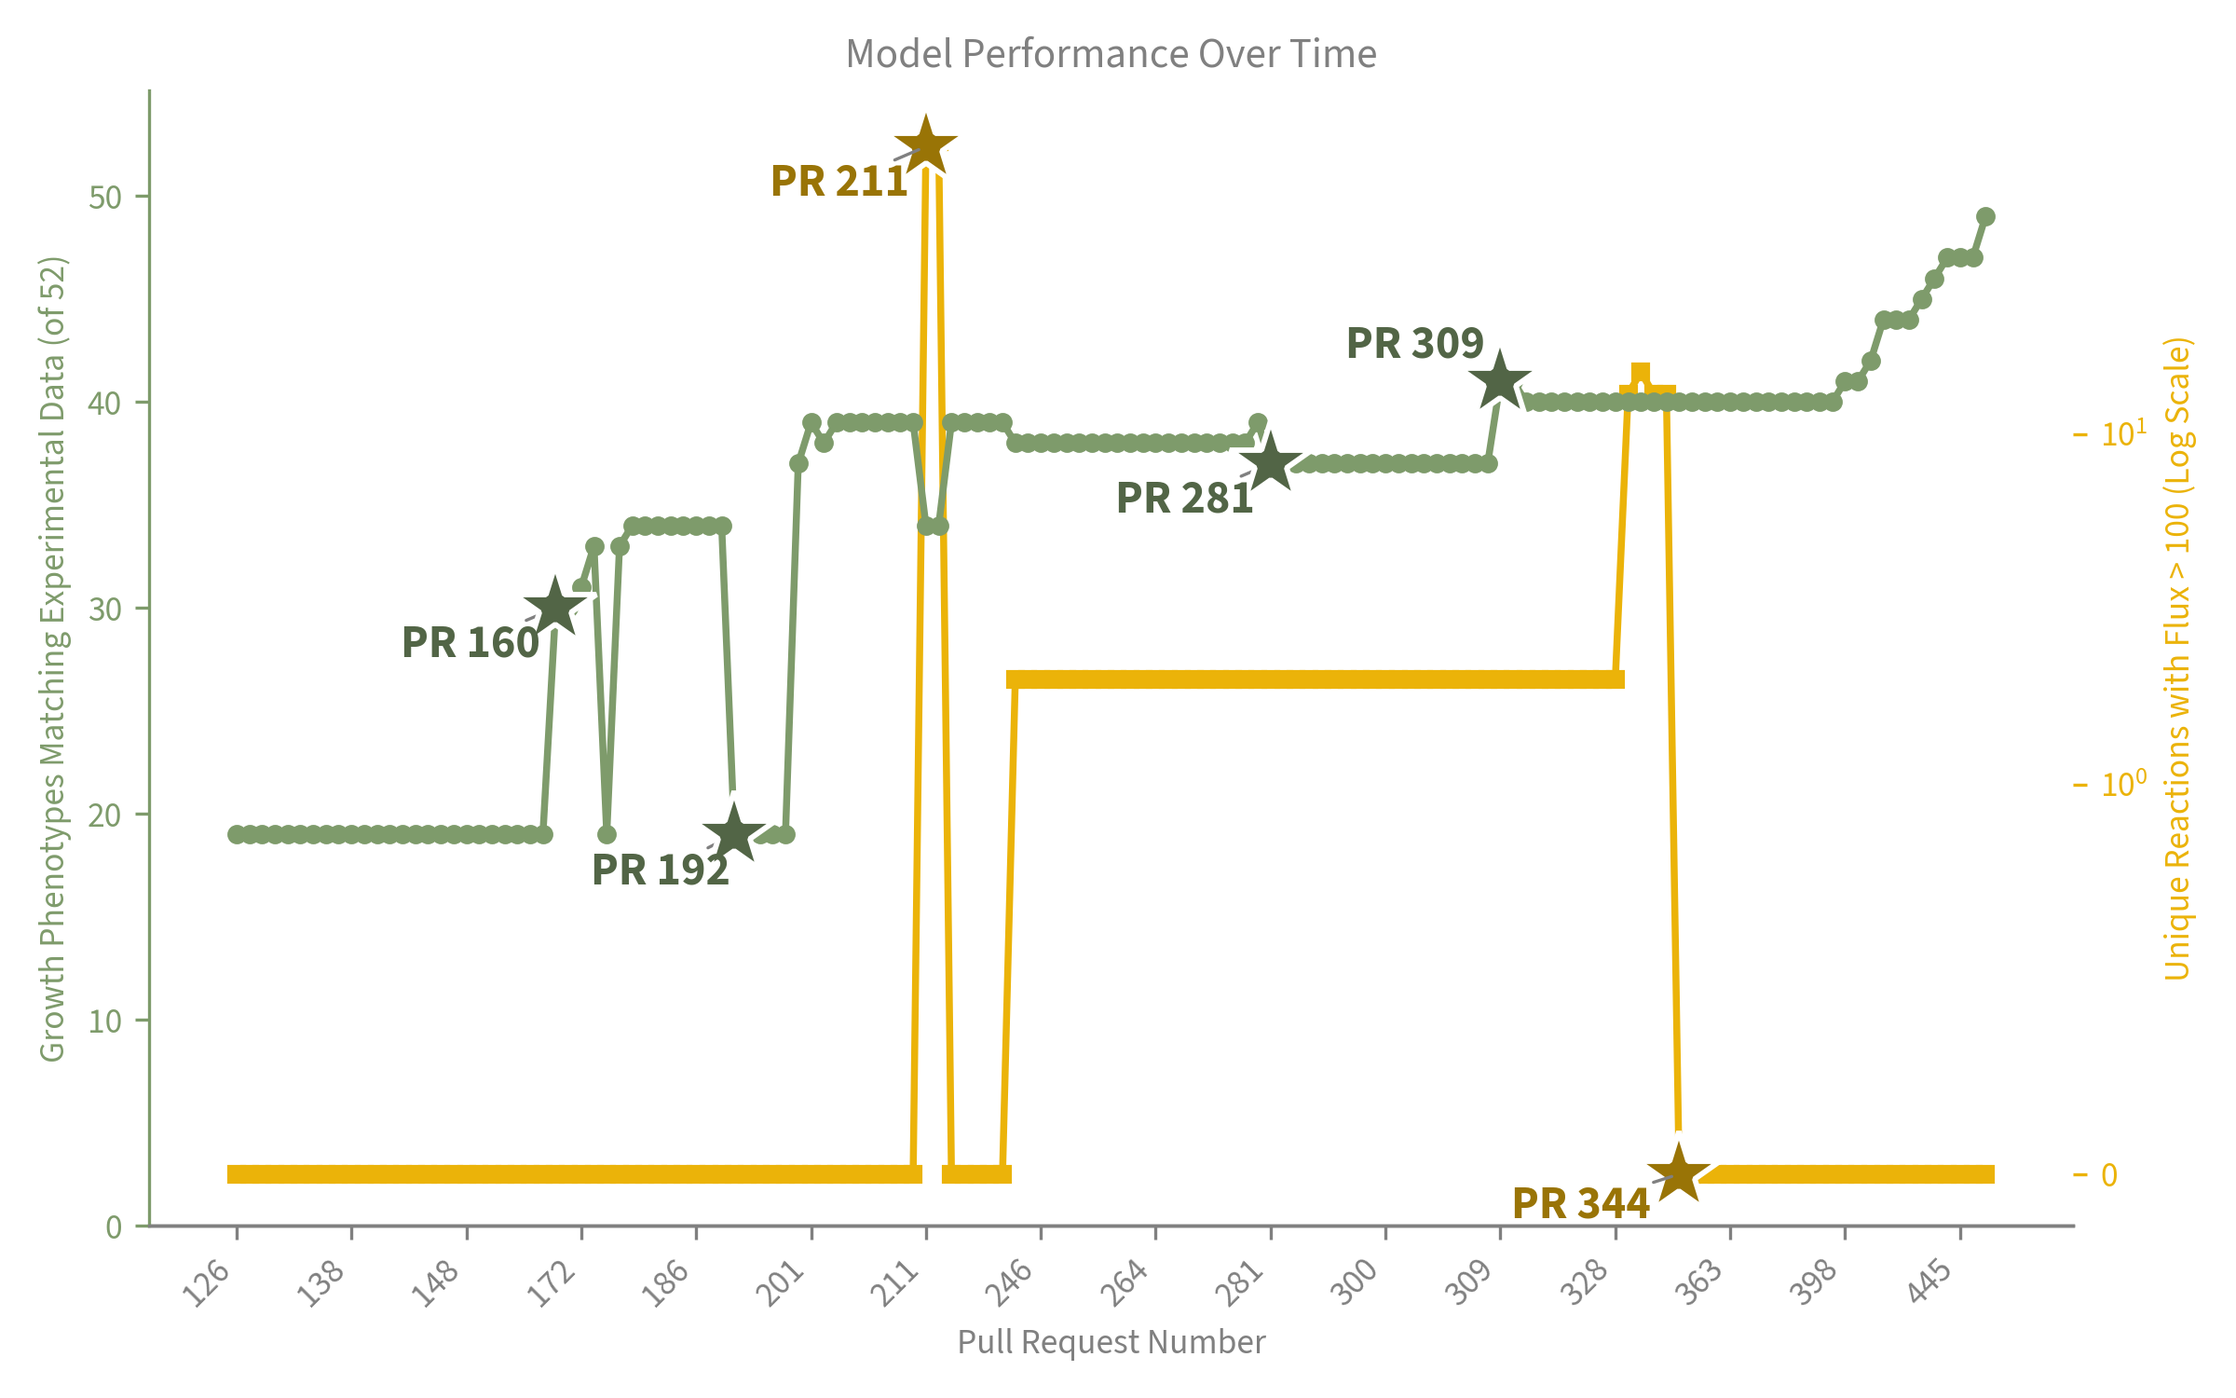
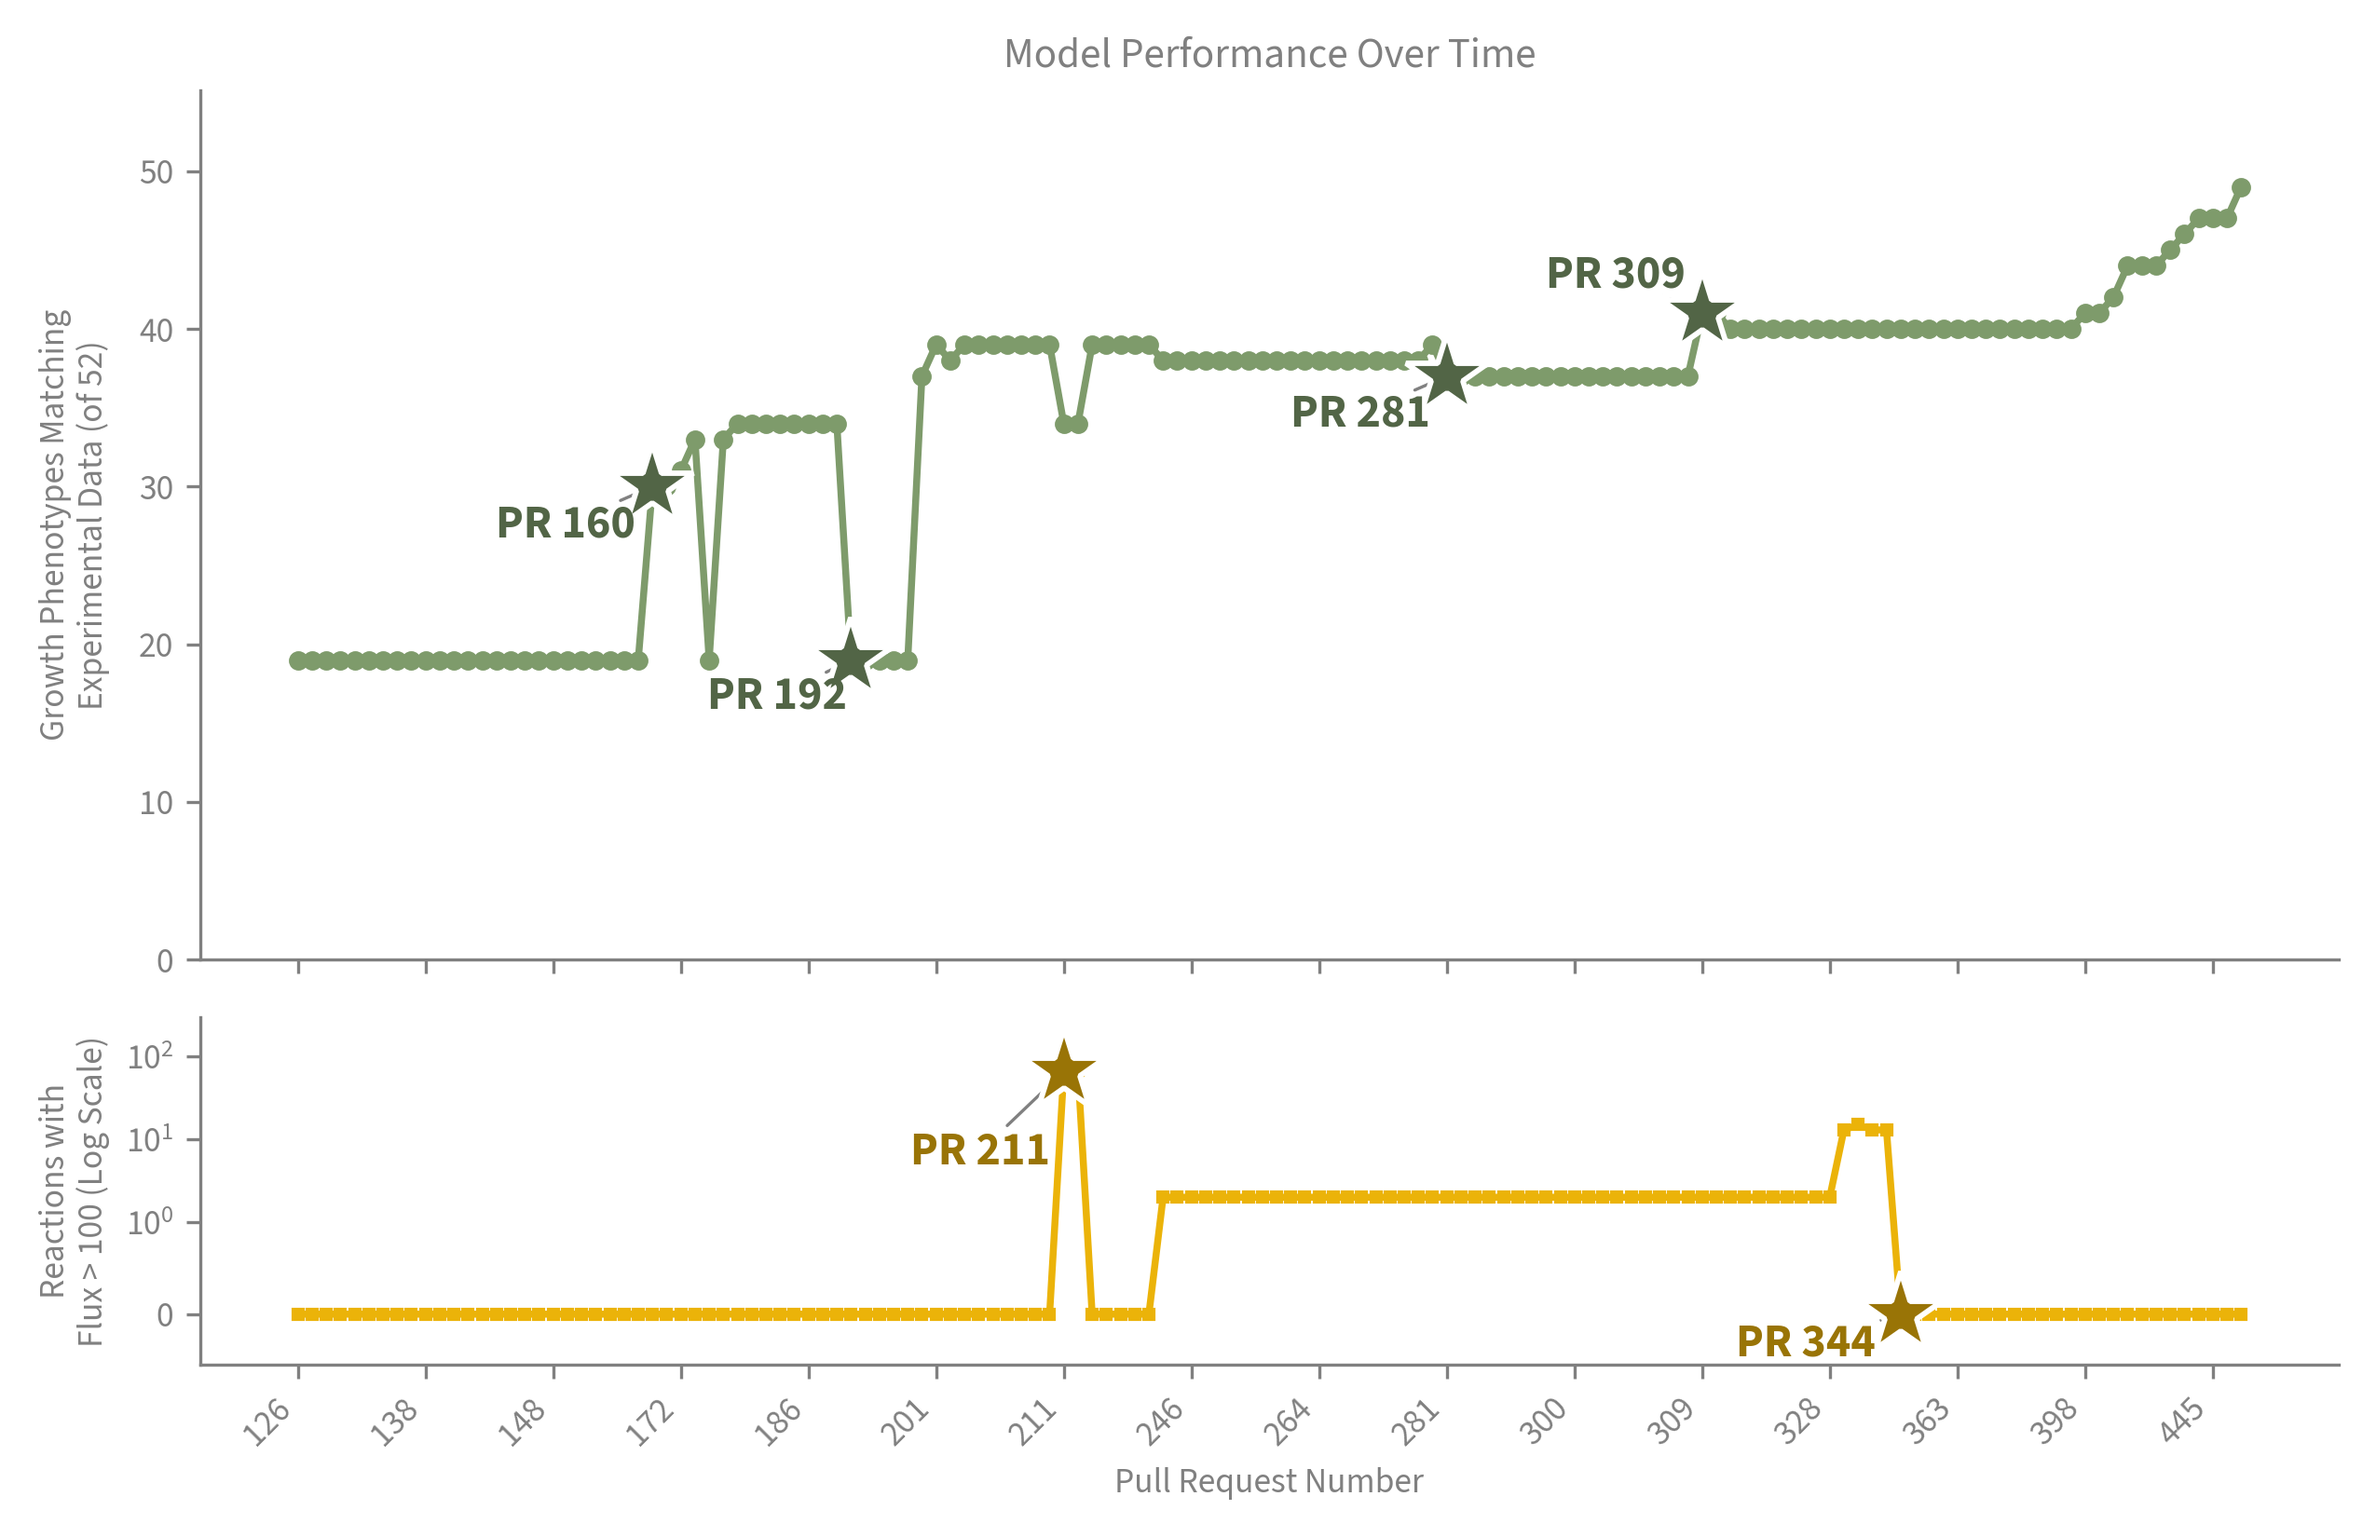
feat: separate the lines onto different panels

diff --git a/curation_process/plot_match_over_time.py b/curation_process/plot_match_over_time.py
@@ -80,14 +80,27 @@ flux_color = summer_colors["yellow"]
 matches_marker = "o"
 flux_marker = "s"
 
-# Create a figure with twin y axes
-fig, ax1 = plt.subplots(figsize=(8, 5))
-ax2 = ax1.twinx()
+# Two stacked panels sharing one x axis, rather than the twin y axes this used
+# to have. The growth-match line gets the taller panel because it is the result
+# the figure is about; the unbounded-flux line is a diagnostic, so it gets a
+# short panel underneath. Giving each line its own panel also means each y axis
+# belongs to exactly one series, so the axes no longer have to be color-coded
+# to say which line they describe.
+#
+# 8.5 in is the full width of the figure as submitted, labels and legends
+# included, so nothing gets scaled (and no in-figure text shrinks) afterwards.
+fig, (ax_match, ax_flux) = plt.subplots(
+    2,
+    1,
+    sharex=True,
+    figsize=(8.5, 5.5),
+    height_ratios=[2.5, 1],
+)
 # Scale the unbounded flux axis to show detail near zero
-ax2.set_yscale("symlog", linthresh=1)
+ax_flux.set_yscale("symlog", linthresh=1)
 
-# Plot the number of matches on the left axis
-ax1.plot(
+# Plot the number of matches on the top panel
+ax_match.plot(
     data.index,
     data["Matches"],
     marker=matches_marker,
@@ -99,12 +112,14 @@ ax1.plot(
     color=matches_color,
 )
 
-# Plot the number of arbitrarily large reactions on the right axis
-ax2.plot(
+# Plot the number of arbitrarily large reactions on the bottom panel
+ax_flux.plot(
     data.index,
     data["Unbounded Flux Reactions"],
     marker=flux_marker,
-    markersize=4,
+    # Smaller than the top panel's markers: this panel is a third the height,
+    # so markers at the same size merge into a solid slab along the zero line
+    markersize=2.5,
     linestyle="-",
     # Slightly heavier than the default: the yellow of this palette is light
     # against white, and a hairline in it disappears at figure scale
@@ -112,49 +127,40 @@ ax2.plot(
     color=flux_color,
 )
 
-# Make it so it looks like the matches line is "on top"
-# Move ax1 to a higher z-order than ax2
-ax1.set_zorder(ax2.get_zorder() + 1)
-# Make ax1's background transparent so ax2 is still visible behind it
-ax1.patch.set_visible(False)
+# Apply the shared style (gray axis lines, no top/right spines, gray text)
+set_plot_style(ax_match)
+set_plot_style(ax_flux)
 
-# Apply the shared style (gray bottom axis, no top/right spines, gray text)
-set_plot_style(ax1)
-
-# Titles and labels (set on ax1 so set_plot_style's gray text applies)
-ax1.set_title("Model Performance Over Time")
-ax1.set_xlabel("Pull Request Number")
+# Titles and labels
+ax_match.set_title("Model Performance Over Time")
 if n_interpretable:
-    ax1.set_ylabel(
-        f"Growth Phenotypes Matching Experimental Data (of {n_interpretable})"
+    ax_match.set_ylabel(
+        f"Growth Phenotypes Matching\nExperimental Data (of {n_interpretable})"
     )
 else:
-    ax1.set_ylabel("Growth Phenotypes Matching Experimental Data")
+    ax_match.set_ylabel("Growth Phenotypes Matching\nExperimental Data")
 # Full range of the metric, so the height of the line reads as a fraction of
-# what could be matched rather than being rescaled to whatever was achieved
-ax1.set_ylim(0, (n_interpretable or 55))
-ax2.set_ylabel("Unique Reactions with Flux > 100 (Log Scale)")
+# what could be matched rather than being rescaled to whatever was achieved.
+# The extra 6% is headroom for the PR labels.
+ax_match.set_ylim(0, (n_interpretable or 55) * 1.06)
+
+ax_flux.set_ylabel("Reactions with\nFlux > 100 (Log Scale)")
+# Headroom above the tallest spike for that panel's PR labels. Set explicitly
+# rather than as a multiple of the data: on a log scale a proportional margin
+# is an extra decade or nothing at all depending on where the maximum falls.
+# The bottom goes slightly below zero so the stars on the highlighted PRs that
+# sit at zero (PR 344) are drawn whole rather than clipped by the x axis. Safe
+# on this scale because symlog is linear within +/-linthresh, so a small
+# negative bottom is a small amount of space, not a decade.
+ax_flux.set_ylim(-0.55, 300)
+ax_flux.set_xlabel("Pull Request Number")
 
 # Thin out the x-tick labels: with ~120 points, labeling every PR is unreadable,
-# so show every Nth PR number instead
+# so show every Nth PR number instead. Set on the shared (bottom) axis.
 step = max(1, len(data) // 15)
 tick_positions = data.index[::step]
-ax1.set_xticks(tick_positions)
-ax1.set_xticklabels(data["PR Number"].iloc[::step], rotation=45, ha="right")
-
-# Color the left axis to match the matches line
-ax1.spines["left"].set_color(matches_color)
-ax1.tick_params(axis="y", colors=matches_color)
-ax1.yaxis.label.set_color(matches_color)
-
-# Color the right axis to match the unbounded flux line.
-# set_plot_style hides ax2's spines, and its right spine is the one we want, so
-# style ax2 by hand instead of calling set_plot_style on it.
-ax2.spines["top"].set_visible(False)
-ax2.spines["left"].set_visible(False)
-ax2.spines["right"].set_color(flux_color)
-ax2.tick_params(axis="y", colors=flux_color)
-ax2.yaxis.label.set_color(flux_color)
+ax_flux.set_xticks(tick_positions)
+ax_flux.set_xticklabels(data["PR Number"].iloc[::step], rotation=45, ha="right")
 
 # ---- Annotate the highlighted PRs -------------------------------------------
 # The x-axis is the row index, not the PR number, so map PR number -> x position
@@ -172,22 +178,25 @@ def darken(color, factor=0.65):
     return (r * factor, g * factor, b * factor)
 
 
-# Give the top of the growth axis a little headroom for the PR labels
-ax1.set_ylim(0, (n_interpretable or 55) * 1.06)
-# Finalize the layout first so the data->display transforms used below (to put
-# the flux labels into ax1's coordinate system) are correct.
+# One left edge for both y-axis labels, instead of each sitting wherever its
+# own tick labels end
+fig.align_ylabels([ax_match, ax_flux])
+
+# Finalize the layout before annotating so adjustText sees the axes at their
+# final size
 fig.tight_layout()
 fig.canvas.draw()
 
-# Collect all highlight labels in ONE coordinate system (ax1) so adjustText can
-# place growth and flux labels together without them colliding. Stars are drawn
-# on each series' own axis; the flux point position is transformed into ax1
-# coords only so its label and leader line land in the right place.
-label_texts = []
 
+def add_highlights(ax, y_col, highlights, series_color, expand=(1.4, 1.8)):
+    """Star the highlighted PRs on `ax` and lay their labels out around them.
 
-def add_highlights(source_ax, y_col, highlights, series_color):
+    Each panel is laid out on its own: the labels only ever have to avoid the
+    one line drawn in that panel, which is the part that got simpler by
+    splitting the twin axes into two panels.
+    """
     star_color = darken(series_color)
+    label_texts = []
     for pr in highlights:
         if pr not in pr_to_index:
             warnings.warn(f"Highlight PR #{pr} is not in the plotted data; skipping.")
@@ -195,7 +204,7 @@ def add_highlights(source_ax, y_col, highlights, series_color):
         x = pr_to_index[pr]
         y = data.loc[x, y_col]
         # Bigger star, darker shade of the line color, white halo to separate it
-        source_ax.plot(
+        ax.plot(
             x,
             y,
             marker="*",
@@ -205,13 +214,10 @@ def add_highlights(source_ax, y_col, highlights, series_color):
             markeredgewidth=1.4,
             zorder=7,
         )
-        # Position the label in ax1 data coords (transform if it's a flux point)
-        disp = source_ax.transData.transform((x, y))
-        x1, y1 = ax1.transData.inverted().transform(disp)
         label_texts.append(
-            ax1.text(
-                x1,
-                y1,
+            ax.text(
+                x,
+                y,
                 f"PR {pr}",
                 color=star_color,
                 fontsize=12,
@@ -221,30 +227,31 @@ def add_highlights(source_ax, y_col, highlights, series_color):
                 zorder=8,
             )
         )
+    # Points for the labels to avoid: every plotted marker of this panel's series
+    adjust_text(
+        label_texts,
+        x=list(data.index),
+        y=list(data[y_col]),
+        ax=ax,
+        arrowprops=dict(arrowstyle="-", color="0.5", lw=0.8),
+        expand=expand,
+        force_text=(0.4, 0.7),
+        ensure_inside_axes=True,
+        min_arrow_len=6,
+    )
 
 
-add_highlights(ax1, "Matches", GROWTH_HIGHLIGHT_PRS, matches_color)
-add_highlights(ax2, "Unbounded Flux Reactions", FLUX_HIGHLIGHT_PRS, flux_color)
-
-# Points for the labels to avoid: every plotted marker of both series, all in
-# ax1 coords so labels don't sit on either line.
-avoid_x, avoid_y = [], []
-for col, src in (("Matches", ax1), ("Unbounded Flux Reactions", ax2)):
-    for x, y in zip(data.index, data[col]):
-        dx, dy = ax1.transData.inverted().transform(src.transData.transform((x, y)))
-        avoid_x.append(dx)
-        avoid_y.append(dy)
-
-adjust_text(
-    label_texts,
-    x=avoid_x,
-    y=avoid_y,
-    ax=ax1,
-    arrowprops=dict(arrowstyle="-", color="0.5", lw=0.8),
-    expand=(1.4, 1.8),
-    force_text=(0.4, 0.7),
-    ensure_inside_axes=True,
-    min_arrow_len=6,
+add_highlights(ax_match, "Matches", GROWTH_HIGHLIGHT_PRS, matches_color)
+# The flux line sits on zero almost everywhere, so its labels start out on top
+# of it and the whole panel above is empty. Push them further vertically than
+# the top panel's, where space is tighter and a big shove would strand a label
+# far from its star.
+add_highlights(
+    ax_flux,
+    "Unbounded Flux Reactions",
+    FLUX_HIGHLIGHT_PRS,
+    flux_color,
+    expand=(1.4, 4.0),
 )
 
 # Save the plot
